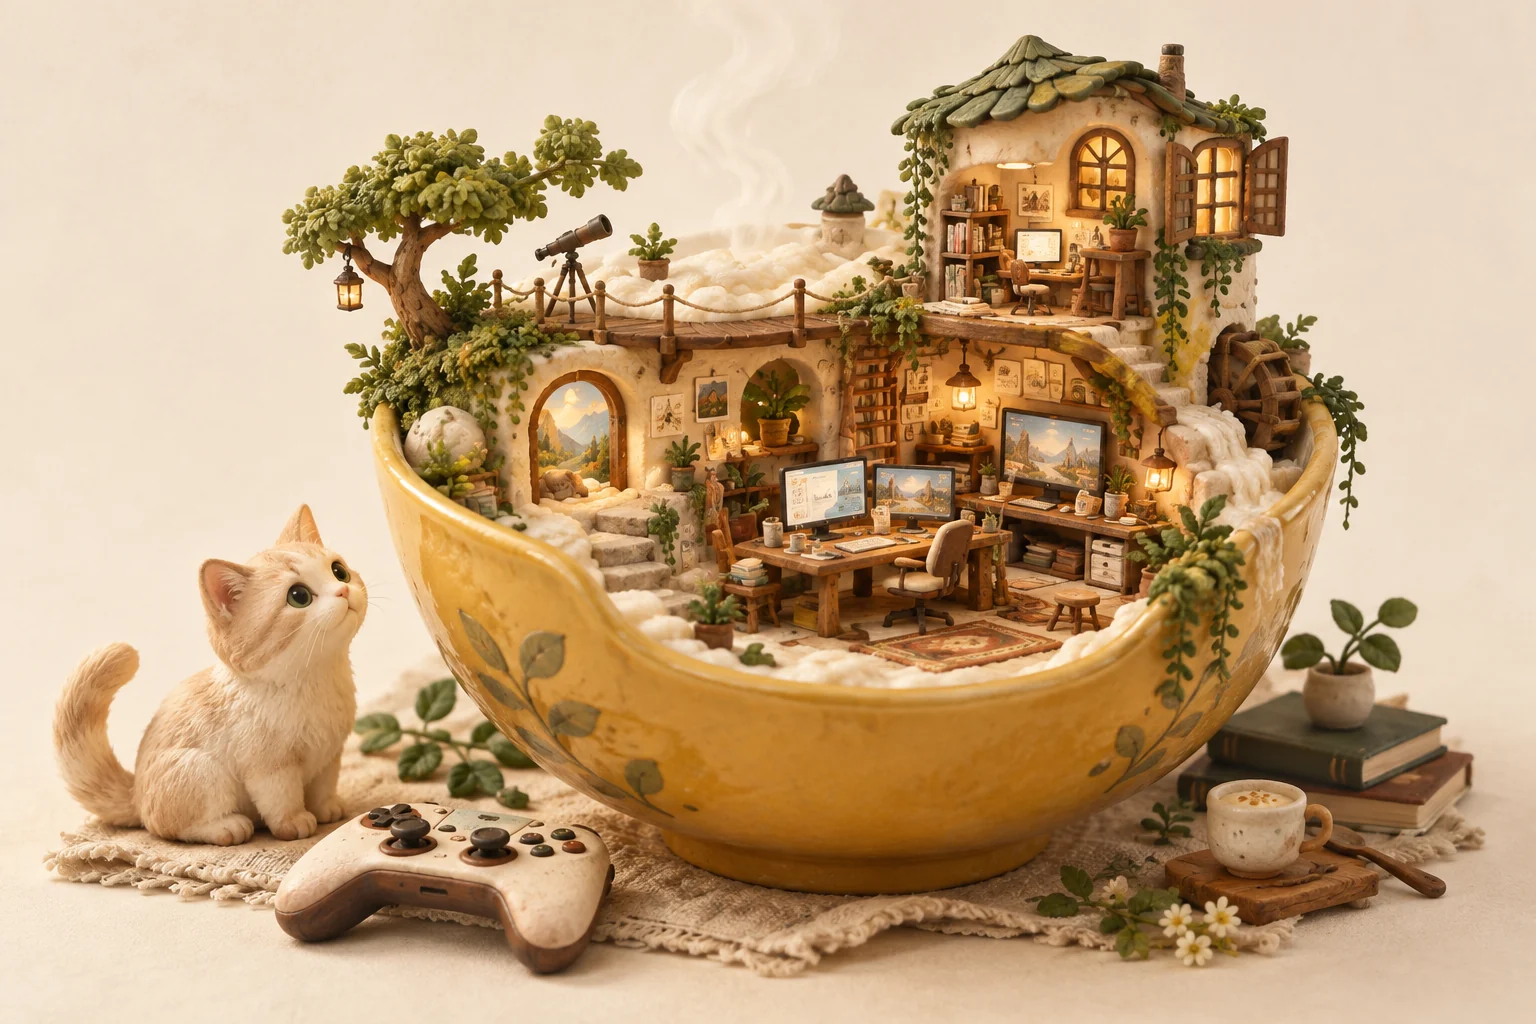
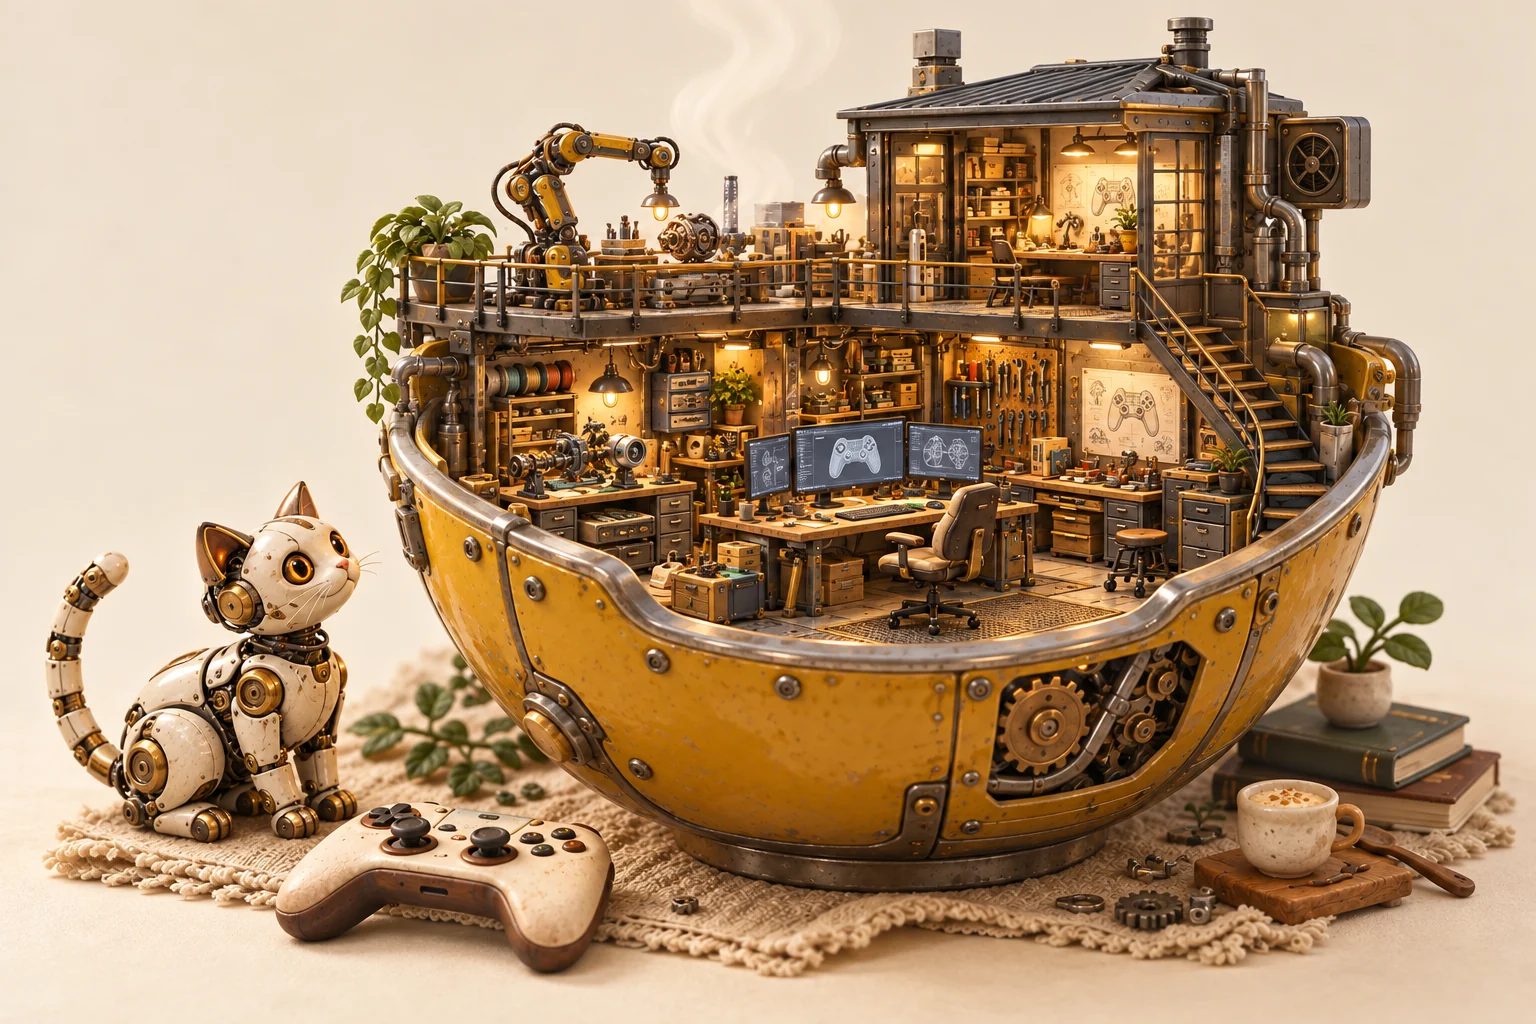
Replace studio hero with mechanical cat and workshop artwork

diff --git a/index.html b/index.html
@@ -18,7 +18,7 @@
 <main id="main">
 <section class="hero wrap" id="home" aria-labelledby="hero-title">
 <div class="hero-copy"><p class="eyebrow"><span class="live-dot"></span> 小小工作室，大大的好奇心</p><h1 id="hero-title">把奇怪的想法，<br>熬成<span class="highlight">好玩的游戏。</span></h1><p class="lead">我们是薛定谔的粥，一个独立游戏工作室。<br class="desktop-break">在玩法里放一点意外，在世界里留一点余温。<br class="desktop-break">慢慢打磨，直到一个点子值得你亲自走进去。</p><div class="actions"><a class="button primary" href="#games">看看正在熬什么 <span aria-hidden="true">↗</span></a><a class="text-link" href="#about">认识我们 <span aria-hidden="true">→</span></a></div><div class="hero-foot"><span>独立创作</span><span>玩法实验</span><span>有温度的世界</span></div></div>
-<figure class="hero-art"><img src="assets/studio-hero.webp" width="1536" height="1024" alt="暖黄色粥碗里生长出一间微型游戏工作室，小猫与手柄陪伴在旁" fetchpriority="high"><figcaption><span class="art-tag">IDEAS ARE SIMMERING</span><span>一锅想象，持续小火慢炖。 <span aria-hidden="true">✦</span></span></figcaption></figure>
+<figure class="hero-art"><img src="assets/studio-hero.webp" width="1536" height="1024" alt="暖黄色金属粥碗里的微型机械工作室，机械猫与手柄陪伴在旁" fetchpriority="high"><figcaption><span class="art-tag">IDEAS ARE SIMMERING</span><span>一锅想象，持续小火慢炖。 <span aria-hidden="true">✦</span></span></figcaption></figure>
 </section>
 <div class="ticker" aria-hidden="true"><div class="wrap">奇思妙想 <span>✦</span> 认真制作 <span>✦</span> 亲手试玩 <span>✦</span> 再来一次 <span>✦</span> STAY CURIOUS. KEEP PLAYING.</div></div>
 <section class="section wrap" id="games" aria-labelledby="games-title">

diff --git a/ASSET-PROMPTS.md b/ASSET-PROMPTS.md
@@ -2,9 +2,15 @@
 
 生成方式：内置 image_gen（imagegen 技能），2026-10-25。图片经 WebP 压缩后在页面中使用。
 
-## 工作室主视觉
+## 工作室主视觉（机械风格修订）
 
-文件：`assets/studio-hero.webp`，1536 × 1024。
+文件：`assets/studio-hero.webp`，1536 × 1024。按工作室偏机械的方向修订，以原主视觉为参考，替换为机械猫和金属机械工坊；当前使用下方修订提示词。
+
+```text
+undefined
+```
+
+原版提示词（历史记录）：
 
 ```text
 Use case: illustration-story. Asset type: independent game studio website hero, wide landscape 3:2. Primary request: a beautifully art-directed miniature creative game studio inside a whimsical yellow ceramic porridge bowl, a curious small cream cat sitting beside the bowl, a tiny game controller resting in the foreground, steam rising gently. Scene: warm ivory paper backdrop, tiny architectural windows and plants emerging from the bowl as a little imaginative world. Style: premium handcrafted clay diorama mixed with tactile editorial illustration, subtle paper grain, charming but sophisticated, detailed materials, sculptural forms, soft amber and sage accents, dark espresso details. Composition: one coherent compact diorama centered, generous clean ivory margin, all objects fully visible. Lighting: warm soft studio daylight, gentle grounded shadows. Constraints: no text, no letters, no logo, no watermark, no UI. Match a warm independent game studio called Schrodinger's Porridge.
